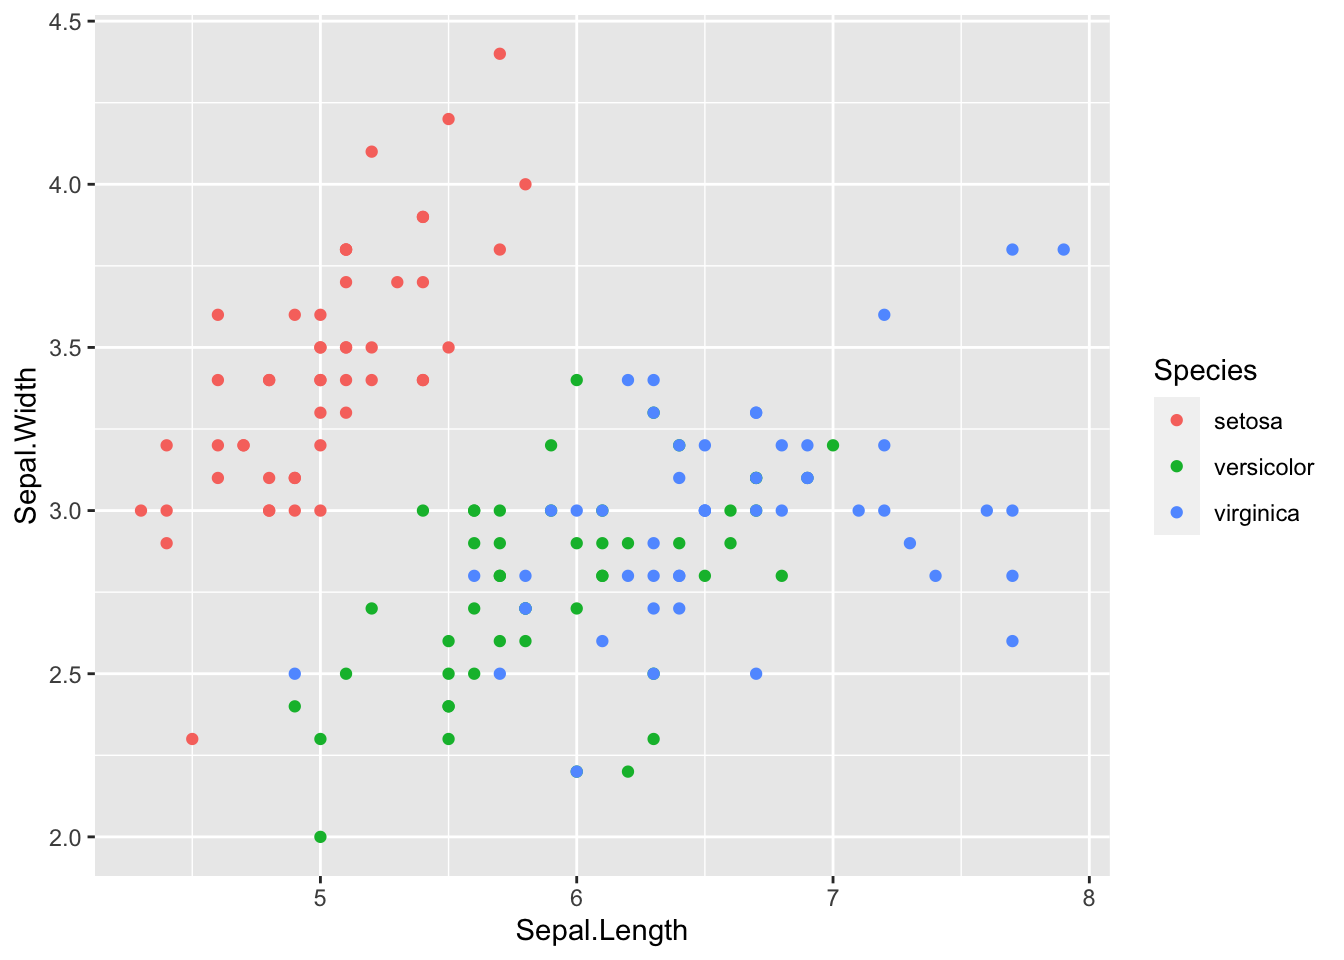
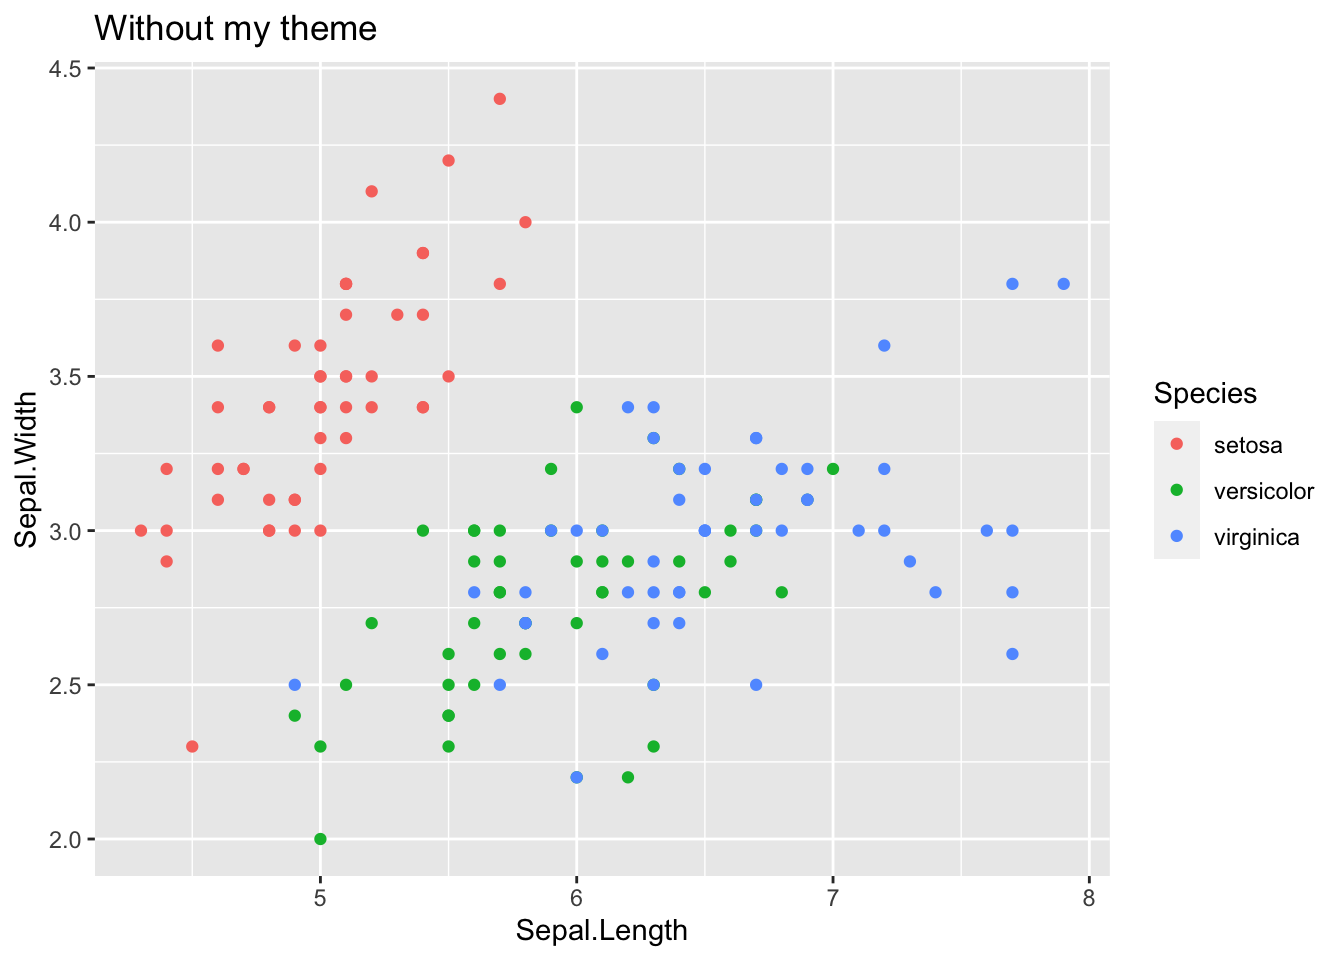
updates

diff --git a/content/notes/2022-02-03-notes-on-R/index.md b/content/notes/2022-02-03-notes-on-R/index.md
@@ -4,7 +4,7 @@ subtitle: Functions et al
 summary: Functions et al
 author: Harshvardhan
 date: '2022-02-03'
-slug: some-r-functions
+slug: notes-on-r
 categories:
   - R
 tags: []
@@ -149,7 +149,8 @@ The default plot looks like this.
 ```r
 iris %>% 
   ggplot(aes(x = Sepal.Length, y = Sepal.Width, colour = Species)) +
-  geom_point()
+  geom_point() +
+  labs(title = "Without my theme")
 ```
 
 <img src="{{< blogdown/postref >}}index_files/figure-html/unnamed-chunk-10-1.png" width="672" />
@@ -162,23 +163,51 @@ theme_h = function(base_size = 14) {
   theme_bw(base_size = base_size) %+replace%
     theme(
       # Specify plot title
-      plot.title = element_text(size = rel(1), face = "bold", margin = margin(0,0,5,0), hjust = 0),
+      plot.title = element_text(
+        size = rel(1),
+        face = "bold",
+        family = "serif",
+        margin = margin(0, 0, 5, 0),
+        hjust = 0
+      ),
       # Specifying grid and border
       panel.grid.minor = element_blank(),
       panel.border = element_blank(),
       # Specidy axis details
-      axis.title = element_text(size = rel(0.85), face = "bold", family="serif"),
-      axis.text = element_text(size = rel(0.70), family="serif"),
-      axis.line = element_line(color = "black", arrow = arrow(length = unit(0.3, "lines"), type = "closed")),
+      axis.title = element_text(
+        size = rel(0.85),
+        face = "bold",
+        family = "serif"
+      ),
+      axis.text = element_text(size = rel(0.70), family = "serif"),
+      axis.line = element_line(
+        color = "black",
+        arrow = arrow(length = unit(0.3, "lines"),
+                      type = "closed")
+      ),
       # Specify legend details
-      legend.title = element_text(size = rel(0.85), face = "bold"),
-      legend.text = element_text(size = rel(0.70), face = "bold", family="serif"),
+      legend.title = element_text(
+        size = rel(0.85),
+        face = "bold",
+        family = "serif"
+      ),
+      legend.text = element_text(
+        size = rel(0.70),
+        face = "bold",
+        family = "serif"
+      ),
       legend.key = element_rect(fill = "transparent", colour = NA),
       legend.key.size = unit(1.5, "lines"),
       legend.background = element_rect(fill = "transparent", colour = NA),
       # Remove default background
       strip.background = element_rect(fill = "#17252D", color = "#17252D"),
-      strip.text = element_text(size = rel(0.85), face = "bold", color = "white", margin = margin(5,0,5,0))
+      strip.text = element_text(
+        size = rel(0.85),
+        face = "bold",
+        family = "serif",
+        color = "white",
+        margin = margin(5, 0, 5, 0)
+      )
     )
 }
 
@@ -189,7 +218,8 @@ theme_set(theme_h())
 ```r
 iris %>% 
   ggplot(aes(x = Sepal.Length, y = Sepal.Width, colour = Species)) +
-  geom_point()
+  geom_point() +
+  labs(title = "With my theme")
 ```
 
 <img src="{{< blogdown/postref >}}index_files/figure-html/unnamed-chunk-12-1.png" width="672" />
